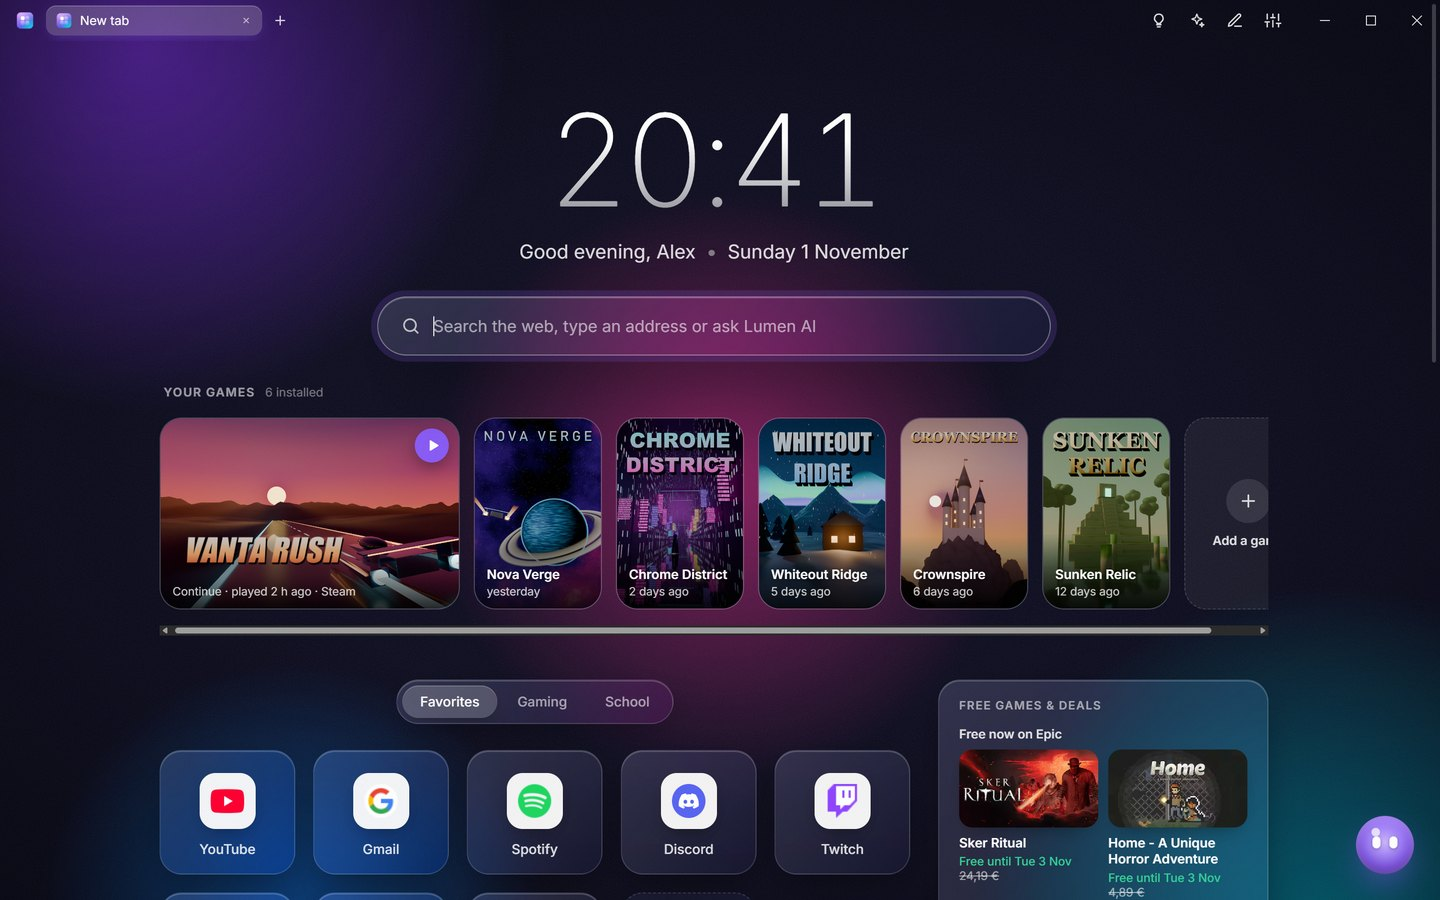
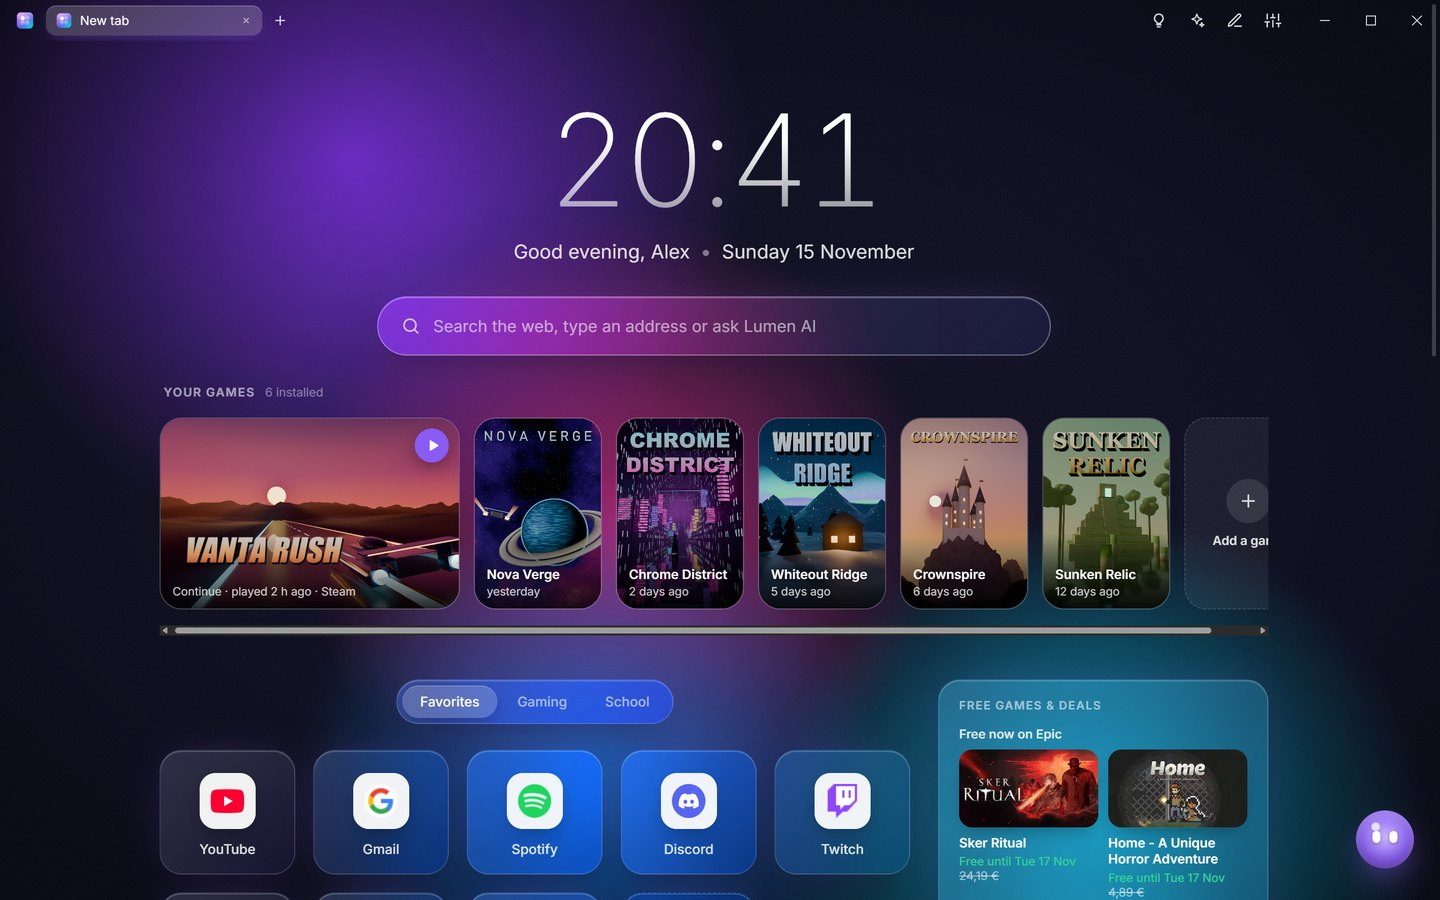
Site: Lumen 4.0 (passwords, history, downloads, pinned tabs, friends online, new screenshots)

diff --git a/index.html b/index.html
@@ -52,11 +52,11 @@
         <div class="card"><div class="ico"><svg viewBox="0 0 24 24" fill="none" stroke="currentColor" stroke-width="2" stroke-linecap="round"><rect x="2" y="6" width="20" height="12" rx="4"/><path d="M7 10v4M5 12h4M15 11h.01M18 13h.01"/></svg></div>
           <h3>All your games</h3><p>Steam, Epic, Minecraft and Roblox games show up by themselves. One click to play, with playtime stats if you want them.</p></div>
         <div class="card"><div class="ico"><svg viewBox="0 0 24 24" fill="none" stroke="currentColor" stroke-width="2" stroke-linecap="round"><circle cx="12" cy="12" r="9"/><path d="M3 12h18M12 3a14 14 0 0 1 0 18M12 3a14 14 0 0 0 0 18"/></svg></div>
-          <h3>A browser with an ad blocker</h3><p>Tabs right inside Lumen, with ads and trackers blocked, so pages load faster and videos start without ads. A new tab starts loading the moment you open it.</p></div>
+          <h3>A browser with an ad blocker</h3><p>Tabs right inside Lumen, with ads and trackers blocked, so pages load faster and videos start without ads. It saves your passwords (encrypted on your PC), keeps your history and downloads, and lets you pin, mute and preview tabs.</p></div>
         <div class="card"><div class="ico"><svg viewBox="0 0 24 24" fill="currentColor"><path d="M12 2l1.8 5.4L19 9l-5.2 1.6L12 16l-1.8-5.4L5 9l5.2-1.6zM19 14l.9 2.6 2.1.9-2.1.9L19 21l-.9-2.6-2.1-.9 2.1-.9z"/></svg></div>
           <h3>Lumi, your AI companion</h3><p>Ask anything, get video summaries and game tips, or let it click through websites for you (it always asks first). Connect ChatGPT, Claude, Gemini, or a free AI that runs on your own PC.</p></div>
         <div class="card"><div class="ico"><svg viewBox="0 0 24 24" fill="none" stroke="currentColor" stroke-width="2" stroke-linecap="round"><rect x="3" y="3" width="7" height="7" rx="2"/><rect x="14" y="3" width="7" height="7" rx="2"/><rect x="3" y="14" width="7" height="7" rx="2"/><rect x="14" y="14" width="7" height="7" rx="2"/></svg></div>
-          <h3>Handy widgets</h3><p>Weather, to-do list, notes, calculator, what's playing on Spotify or YouTube with its cover, who's live on Twitch, this week's free games, big Steam sales and the games on your Steam wishlist that are on sale, and your PC's stats.</p></div>
+          <h3>Handy widgets</h3><p>Weather, to-do list, notes, calculator, what's playing on Spotify or YouTube with its cover, who's live on Twitch, which Steam friends are online, this week's free games, big Steam sales and the games on your Steam wishlist that are on sale, and your PC's stats. Drag them into any order you like.</p></div>
         <div class="card"><div class="ico"><svg viewBox="0 0 24 24" fill="none" stroke="currentColor" stroke-width="2" stroke-linecap="round"><circle cx="13.5" cy="6.5" r="1.5"/><circle cx="17.5" cy="10.5" r="1.5"/><circle cx="8.5" cy="7.5" r="1.5"/><circle cx="6.5" cy="12.5" r="1.5"/><path d="M12 2a10 10 0 0 0 0 20c1.1 0 2-.9 2-2 0-.5-.2-1-.5-1.3-.3-.4-.5-.8-.5-1.3 0-1.1.9-2 2-2h2.4A5.6 5.6 0 0 0 22 9.8C22 5.5 17.5 2 12 2z"/></svg></div>
           <h3>Looks the way you want</h3><p>Themes, light and dark mode, glass effects, fonts, your own wallpaper (a picture, or a video that pauses while you game), and graphics settings from fast to full 3D.</p></div>
         <div class="card"><div class="ico"><svg viewBox="0 0 24 24" fill="none" stroke="currentColor" stroke-width="2" stroke-linecap="round" stroke-linejoin="round"><path d="M21 12a9 9 0 1 1-3-6.7L21 8"/><path d="M21 3v5h-5"/></svg></div>
@@ -64,7 +64,7 @@
         <div class="card"><div class="ico"><svg viewBox="0 0 24 24" fill="none" stroke="currentColor" stroke-width="2" stroke-linecap="round" stroke-linejoin="round"><path d="M13 2 4 14h7l-1 8 9-12h-7z"/></svg></div>
           <h3>Game mode</h3><p>When you start a game, Lumen goes quiet by itself: animations and background work pause and your game gets more of the PC. Afterwards Lumi asks how it went.</p></div>
         <div class="card"><div class="ico"><svg viewBox="0 0 24 24" fill="none" stroke="currentColor" stroke-width="2" stroke-linecap="round" stroke-linejoin="round"><path d="M12 3l8 3v6c0 5-3.5 8-8 9-4.5-1-8-4-8-9V6z"/><path d="M8.5 12.5l2.5 2.5 4.5-5"/></svg></div>
-          <h3>Safe by design</h3><p>Updates are signed, so only real Lumen updates install. A red warning stops you before phishing, malware and scam sites (checked on your PC, nothing is sent anywhere). Websites can't open apps or pop-ups without your click, and backups from other people can't bring programs onto your PC.</p></div>
+          <h3>Safe by design</h3><p>Updates are signed, so only real Lumen updates install. A red warning stops you before phishing, malware and scam sites (checked on your PC, nothing is sent anywhere), and Lumen always uses the secure version of a site. Websites can't open apps or pop-ups without your click, and backups from other people can't bring programs onto your PC.</p></div>
         <div class="card"><div class="ico"><svg viewBox="0 0 24 24" fill="none" stroke="currentColor" stroke-width="2" stroke-linecap="round" stroke-linejoin="round"><path d="M4 17l6-6-6-6M12 19h8"/></svg></div>
           <h3>Installs in one step</h3><p>Paste one line into Windows' Run box and Lumen installs itself, with a Start menu entry, a desktop shortcut and Uninstall in Windows Settings.</p></div>
       </div>
